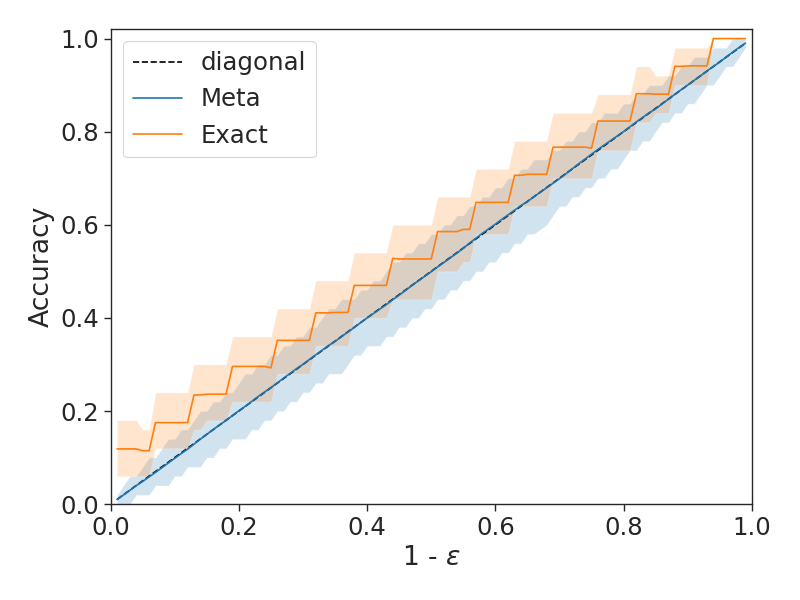
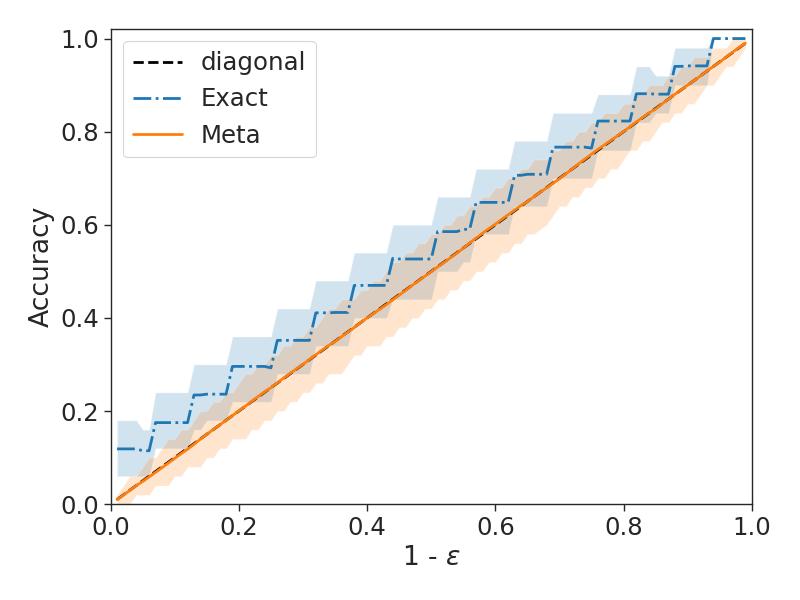
quantile plot

diff --git a/mini_imagenet/mini_im_quantiles.py b/mini_imagenet/mini_im_quantiles.py
@@ -1,0 +1,186 @@
+"""Approximate quantiles of few-shot prototypical networks for mini imagenet."""
+
+import argparse
+import numpy as np
+import scipy.stats
+import torch
+import torch.nn as nn
+import torch.nn.functional as F
+import torch.optim as optim
+import pytorch_lightning
+
+
+class QuantileProto(pytorch_lightning.LightningModule):
+
+    def __init__(self, hparams):
+        super(QuantileProto, self).__init__()
+        self.hparams = hparams
+        self.embedder = nn.Sequential(
+            nn.Linear(1, hparams.hidden_size),
+            nn.ReLU(),
+            nn.Linear(hparams.hidden_size, hparams.hidden_size),
+            nn.ReLU())
+        factor = 3 if hparams.pool == "all" else 1
+        self.combiner = nn.Sequential(
+            nn.Linear(hparams.hidden_size * factor, hparams.hidden_size),
+            nn.ReLU(),
+            nn.Linear(hparams.hidden_size, hparams.hidden_size),
+            nn.ReLU(),
+            nn.Linear(hparams.hidden_size, 1))
+
+    def forward(self, x):
+        embeddings = self.embedder(x.view(-1, 1))
+        embeddings = embeddings.view(-1, self.hparams.k_shot, self.hparams.hidden_size)
+        if self.hparams.pool == "sum":
+            embeddings = embeddings.sum(dim=1)
+        elif self.hparams.pool == "max":
+            embeddings = embeddings.max(dim=1)[0]
+        elif self.hparams.pool == "min":
+            embeddings = embeddings.min(dim=1)[0]
+        else:
+            embeddings = torch.cat(
+                [embeddings.sum(dim=1),
+                 embeddings.max(dim=1)[0],
+                 embeddings.min(dim=1)[0]],
+                dim=1)
+        outputs = self.combiner(embeddings)
+        return outputs.view(-1)
+
+    def training_step(self, batch, batch_idx):
+        x, y = batch
+        y_hat = self.forward(x)
+        loss = F.mse_loss(y, y_hat)
+        tensorboard_logs = {"train_loss": loss}
+        return {"loss": loss, "log": tensorboard_logs}
+
+    def validation_step(self, batch, batch_idx):
+        x, y = batch
+        y_hat = self.forward(x)
+        loss = (y - y_hat).abs()
+        baseline_loss = y.clone()
+        for i in range(len(x)):
+            y_emp = np.quantile(x[i].cpu().numpy(), self.hparams.alpha,
+                                interpolation="higher")
+            baseline_loss[i] = (y[i] - y_emp).abs()
+        return {"val_loss": loss, "baseline_val_loss": baseline_loss}
+
+    def validation_epoch_end(self, outputs):
+        loss = torch.cat([x["val_loss"] for x in outputs])
+        baseline_loss = torch.cat([x["baseline_val_loss"] for x in outputs])
+        tensorboard_logs = {"avg_val_loss": loss.mean(), "avg_baseline_val_loss": baseline_loss.mean(),
+                            "std_val_loss": loss.std(), "std_baseline_val_loss": baseline_loss.std()}
+        return {"val_loss": loss.mean(), "log": tensorboard_logs}
+
+    def test_step(self, batch, batch_idx):
+        x, y = batch
+        y_hat = self.forward(x)
+        loss = (y - y_hat).abs()
+        baseline_loss = y.clone()
+        for i in range(len(x)):
+            y_emp = np.quantile(x[i].cpu().numpy(), self.hparams.alpha,
+                                interpolation="higher")
+            baseline_loss[i] = (y[i] - y_emp).abs()
+        return {"test_loss": loss, "baseline_test_loss": baseline_loss}
+
+    def test_epoch_end(self, outputs):
+        loss = torch.cat([x["test_loss"] for x in outputs])
+        baseline_loss = torch.cat([x["baseline_test_loss"] for x in outputs])
+        tensorboard_logs = {"avg_test_loss": loss.mean(), "avg_baseline_test_loss": baseline_loss.mean(),
+                            "std_test_loss": loss.std(), "std_baseline_test_loss": baseline_loss.std()}
+        return {"test_loss": loss.mean(), "log": tensorboard_logs}
+
+    def configure_optimizers(self):
+        return optim.Adam(self.parameters(), lr=self.hparams.learning_rate)
+
+    def train_dataloader(self):
+        num_tasks = self.hparams.num_train_tasks
+        num_examples = self.hparams.num_train_examples
+        k = self.hparams.k_shot
+        tasks = create_tasks(num_tasks)
+        inputs = np.empty((num_tasks * num_examples, k))
+        targets = np.empty((num_tasks * num_examples))
+        i = 0
+        for mu, std in tasks:
+            for _ in range(num_examples):
+                inputs[i] = np.random.normal(mu, std, size=k)
+                targets[i] = scipy.stats.norm.ppf(self.hparams.alpha, mu, std)
+                i += 1
+        inputs = torch.from_numpy(inputs).float()
+        targets = torch.from_numpy(targets).float()
+        dataset = torch.utils.data.TensorDataset(inputs, targets)
+        loader = torch.utils.data.DataLoader(dataset, shuffle=True, batch_size=self.hparams.batch_size)
+        return loader
+
+    def val_dataloader(self):
+        num_tasks = self.hparams.num_val_tasks
+        num_examples = self.hparams.num_val_examples
+        k = self.hparams.k_shot
+        tasks = create_tasks(num_tasks)
+        inputs = np.empty((num_tasks * num_examples, k))
+        targets = np.empty((num_tasks * num_examples))
+        i = 0
+        for mu, std in tasks:
+            for _ in range(num_examples):
+                inputs[i] = np.random.normal(mu, std, size=k)
+                targets[i] = scipy.stats.norm.ppf(self.hparams.alpha, mu, std)
+                i += 1
+        inputs = torch.from_numpy(inputs).float()
+        targets = torch.from_numpy(targets).float()
+        dataset = torch.utils.data.TensorDataset(inputs, targets)
+        loader = torch.utils.data.DataLoader(dataset, batch_size=self.hparams.batch_size)
+        return loader
+
+    def test_dataloader(self):
+        num_tasks = self.hparams.num_test_tasks
+        num_examples = self.hparams.num_test_examples
+        k = self.hparams.k_shot
+        tasks = create_tasks(num_tasks)
+        inputs = np.empty((num_tasks * num_examples, k))
+        targets = np.empty((num_tasks * num_examples))
+        i = 0
+        for mu, std in tasks:
+            for _ in range(num_examples):
+                inputs[i] = np.random.normal(mu, std, size=k)
+                targets[i] = scipy.stats.norm.ppf(self.hparams.alpha, mu, std)
+                i += 1
+        inputs = torch.from_numpy(inputs).float()
+        targets = torch.from_numpy(targets).float()
+        dataset = torch.utils.data.TensorDataset(inputs, targets)
+        loader = torch.utils.data.DataLoader(dataset, batch_size=self.hparams.batch_size)
+        return loader
+
+    @staticmethod
+    def add_model_specific_args(parent_parser):
+        parser = argparse.ArgumentParser(parents=[parent_parser], add_help=False)
+        parser.add_argument("--learning_rate", default=0.001, type=float)
+        parser.add_argument("--batch_size", default=32, type=int)
+        parser.add_argument("--hidden_size", default=32, type=int)
+        parser.add_argument("--pool", default="sum", type=str,
+                            choices=["sum", "max", "min", "all"])
+        parser.add_argument("--alpha", default=0.9, type=float)
+
+        parser.add_argument("--k_shot", default=10, type=int)
+        parser.add_argument("--num_train_tasks", default=100, type=int)
+        parser.add_argument("--num_train_examples", default=1000, type=int)
+        parser.add_argument("--num_val_tasks", default=25, type=int)
+        parser.add_argument("--num_val_examples", default=100, type=int)
+        parser.add_argument("--num_test_tasks", default=25, type=int)
+        parser.add_argument("--num_test_examples", default=100, type=int)
+
+        return parser
+
+
+def main(args):
+    pytorch_lightning.seed_everything(42)
+    model = QuantileProto(hparams=args)
+    trainer = pytorch_lightning.Trainer.from_argparse_args(args)
+    trainer.fit(model)
+    trainer.test()
+
+
+if __name__ == "__main__":
+    parser = argparse.ArgumentParser(add_help=False)
+    parser = pytorch_lightning.Trainer.add_argparse_args(parser)
+    parser = QuantileProto.add_model_specific_args(parser)
+    args = parser.parse_args()
+    main(args)

diff --git a/mini_imagenet/quantile_snn.py b/mini_imagenet/quantile_snn.py
@@ -1,4 +1,4 @@
-"""Quantile prediction for mini_imagenet using a deep set NN."""
+"""Quantile prediction using a deep set NN."""
 
 import argparse
 import collections
@@ -106,12 +106,24 @@ class QuantileSNN(pl.LightningModule):
         inputs, _ = batch
         return self.forward(inputs)
 
+    def test_step(self, batch, batch_idx):
+        inputs, _ = batch
+        return self.forward(inputs)
+
     def validation_epoch_end(self, outputs):
         loss = torch.cat([x["loss"].detach() for x in outputs], dim=0).mean()
         tensorboard_logs = {"val_loss": loss}
         tqdm_dict = tensorboard_logs
         #return {"val_loss": loss, "progress_bar": tqdm_dict, "log": tensorboard_logs}
         self.log("val_loss", loss)
+        return
+
+    def test_epoch_end(self, outputs):
+        loss = torch.cat([x["loss"].detach() for x in outputs], dim=0).mean()
+        tensorboard_logs = {"test_loss": loss}
+        tqdm_dict = tensorboard_logs
+        #return {"val_loss": loss, "progress_bar": tqdm_dict, "log": tensorboard_logs}
+        self.log("test_loss", loss)
         return
 
     def configure_optimizers(self):
@@ -164,6 +176,9 @@ class QuantileSNN(pl.LightningModule):
             collate_fn=construct_batch)
         return loader
 
+    def test_dataloader(self):
+        return self.val_dataloader()
+
     @staticmethod
     def add_argparse_args(parent_parser):
         parser = argparse.ArgumentParser(parents=[parent_parser], conflict_handler="resolve", add_help=False)
@@ -173,7 +188,8 @@ class QuantileSNN(pl.LightningModule):
         parser.add_argument("--gpus", type=int, nargs="+", default=None)
         parser.add_argument("--learning_rate", type=float, default=0.001)
         parser.add_argument("--checkpoint_dir", type=str, default="results/10_way/quantile_snn")
-        parser.add_argument("--overwrite", type="bool", default=True)
+        parser.add_argument("--overwrite", type="bool", default=False)
+        parser.add_argument("--only_test", type="bool", default=False)
 
         parser.add_argument("--batch_size", type=int, default=64)
         parser.add_argument("--max_epochs", type=int, default=15)
@@ -192,7 +208,7 @@ def main(args):
     pl.seed_everything(args.seed)
     model = QuantileSNN(hparams=args)
     print(model)
-    if os.path.exists(args.checkpoint_dir) and os.listdir(args.checkpoint_dir):
+    if os.path.exists(args.checkpoint_dir) and os.listdir(args.checkpoint_dir) and not args.only_test:
         if not args.overwrite:
             raise RuntimeError("Experiment directory is not empty.")
         else:
@@ -200,18 +216,26 @@ def main(args):
     checkpoint_callback = pl.callbacks.ModelCheckpoint(
         filepath=os.path.join(args.checkpoint_dir, "weights.pt"),
         save_top_k=1,
-        verbose=True,
         monitor="val_loss",
         mode="min")
     logger = pl.loggers.tensorboard.TensorBoardLogger(
         save_dir=os.path.join(args.checkpoint_dir, "logs"))
+    logger_csv = pl.loggers.CSVLogger(
+        save_dir=os.path.join(args.checkpoint_dir, "logs"))
     trainer = pl.Trainer(
-        logger=logger,
-        checkpoint_callback=checkpoint_callback,
+        logger=[logger, logger_csv],
+        callbacks=[checkpoint_callback],
         gpus=args.gpus,
         max_epochs=args.max_epochs,
         terminate_on_nan=True)
-    trainer.fit(model)
+
+    if not args.only_test:
+        trainer.fit(model)
+
+    ckpt = os.path.join(args.checkpoint_dir, "weights.pt.ckpt")
+    trainer.test(
+        model=QuantileSNN.load_from_checkpoint(ckpt),
+        verbose=True)
 
 
 if __name__ == "__main__":

diff --git a/plots.py b/plots.py
@@ -89,20 +89,20 @@ def plot_task(qs, results_path, task_name, output_dir, max_size=10, dpi=100):
                 all_y[i] = values[i][0]
 
     all_x = sorted(list(all_x))
-    plt.plot(all_x, all_x, "--", color="k", label="diagonal")
-
-    y = [all_y[i][0] for i in all_x]
-    low = [all_y[i][2] for i in all_x]
-    high = [all_y[i][3] for i in all_x]
-    plt.fill_between(all_x, low, high, alpha=0.2)
-    plt.plot(all_x, y, '-', label="Meta")
+    plt.plot(all_x, all_x, "--", color="k", label="diagonal", linewidth=2)
 
     x = sorted(exact.keys())
     y = [exact[i][0][0] for i in x]
     low = [exact[i][0][2] for i in all_x]
     high = [exact[i][0][3] for i in all_x]
     plt.fill_between(x, low, high, alpha=0.2)
-    plt.plot(x, y, '-', label="Exact")
+    plt.plot(x, y, '-.', label="Exact", linewidth=2)
+
+    y = [all_y[i][0] for i in all_x]
+    low = [all_y[i][2] for i in all_x]
+    high = [all_y[i][3] for i in all_x]
+    plt.fill_between(all_x, low, high, alpha=0.2)
+    plt.plot(all_x, y, '-', label="Meta", linewidth=2)
 
     plt.xlabel("1 - $\epsilon$")
     plt.ylabel("Accuracy")
@@ -135,18 +135,18 @@ def plot_task(qs, results_path, task_name, output_dir, max_size=10, dpi=100):
 
     all_x = sorted(list(all_x))
 
-    y = [min(all_y[i][0], 2*max_size) for i in all_x]
-    low = [all_y[i][2] for i in all_x]
-    high = [all_y[i][3] for i in all_x]
-    plt.fill_between(all_x, low, high, alpha=0.2)
-    plt.plot(all_x, y, '-', label="Meta")
-
     x = sorted(exact.keys())
     y = [min(exact[i][1][0], 2*max_size) for i in x]
     low = [exact[i][1][2] for i in x]
     high = [exact[i][1][3] for i in x]
     plt.fill_between(x, low, high, alpha=0.2)
-    plt.plot(x, y, '-', label="Exact")
+    plt.plot(x, y, '-.', label="Exact", linewidth=2)
+
+    y = [min(all_y[i][0], 2*max_size) for i in all_x]
+    low = [all_y[i][2] for i in all_x]
+    high = [all_y[i][3] for i in all_x]
+    plt.fill_between(all_x, low, high, alpha=0.2)
+    plt.plot(all_x, y, '-', label="Meta", linewidth=2)
 
     plt.xlabel("1 - $\epsilon$")
     plt.ylabel("Size")
@@ -165,7 +165,34 @@ def plot_task(qs, results_path, task_name, output_dir, max_size=10, dpi=100):
             qq = float(q)
             exact_values = exact[float(q)]
             f.write("%2.2f & %2.2f & %2.2f & %2.2f & %2.2f \\\\ \n" % (qq, meta[q][qq][0][0], exact_values[0][0], meta[q][qq][1][0], exact_values[1][0]))
-    
+
+def plot_quantile_convergence(output_dir, dpi=100):
+    ks = [1, 2, 3, 4, 5, 6, 7, 8, 9]
+    path = "/data/rsg/nlp/tals/coverage/meta_cp/few-shot-cp/fewrel/results/10_way/k=%s/q=0.80/logs/default/version_1/metrics.csv"
+
+    losses = []
+    for k in ks:
+        p = path % 2**k
+        with open(p, 'r') as f:
+            last_line = f.readlines()[-1].strip()
+        val_loss = float(last_line.split(',')[-1])
+        losses.append(val_loss)
+
+    x = ks
+    y = losses
+    fig = plt.figure(figsize=(8, 6))
+    ax = fig.add_subplot(111)
+    ax.set_ylim(0.0, 1.05*max(y))
+    ax.set_xlim(0.9, 1.01*max(x))
+    plt.plot(x, y, '-', label="loss", linewidth=2)
+    plt.xlabel("$log_2(k)$")
+    plt.ylabel("Validation loss")
+
+    out_path = os.path.join(output_dir, "quantile_loss.png")
+    plt.tight_layout()
+    plt.savefig(out_path, dpi=dpi)
+    plt.close()
+
 
 
 def main(_):
@@ -178,6 +205,7 @@ def main(_):
     if FLAGS.path_nlp:
         plot_task(FLAGS.qs, FLAGS.path_nlp, "nlp", FLAGS.output_dir, max_size=10, dpi=FLAGS.dpi)
 
+    plot_quantile_convergence(FLAGS.output_dir, dpi=FLAGS.dpi)
 
 
 if __name__ == "__main__":
